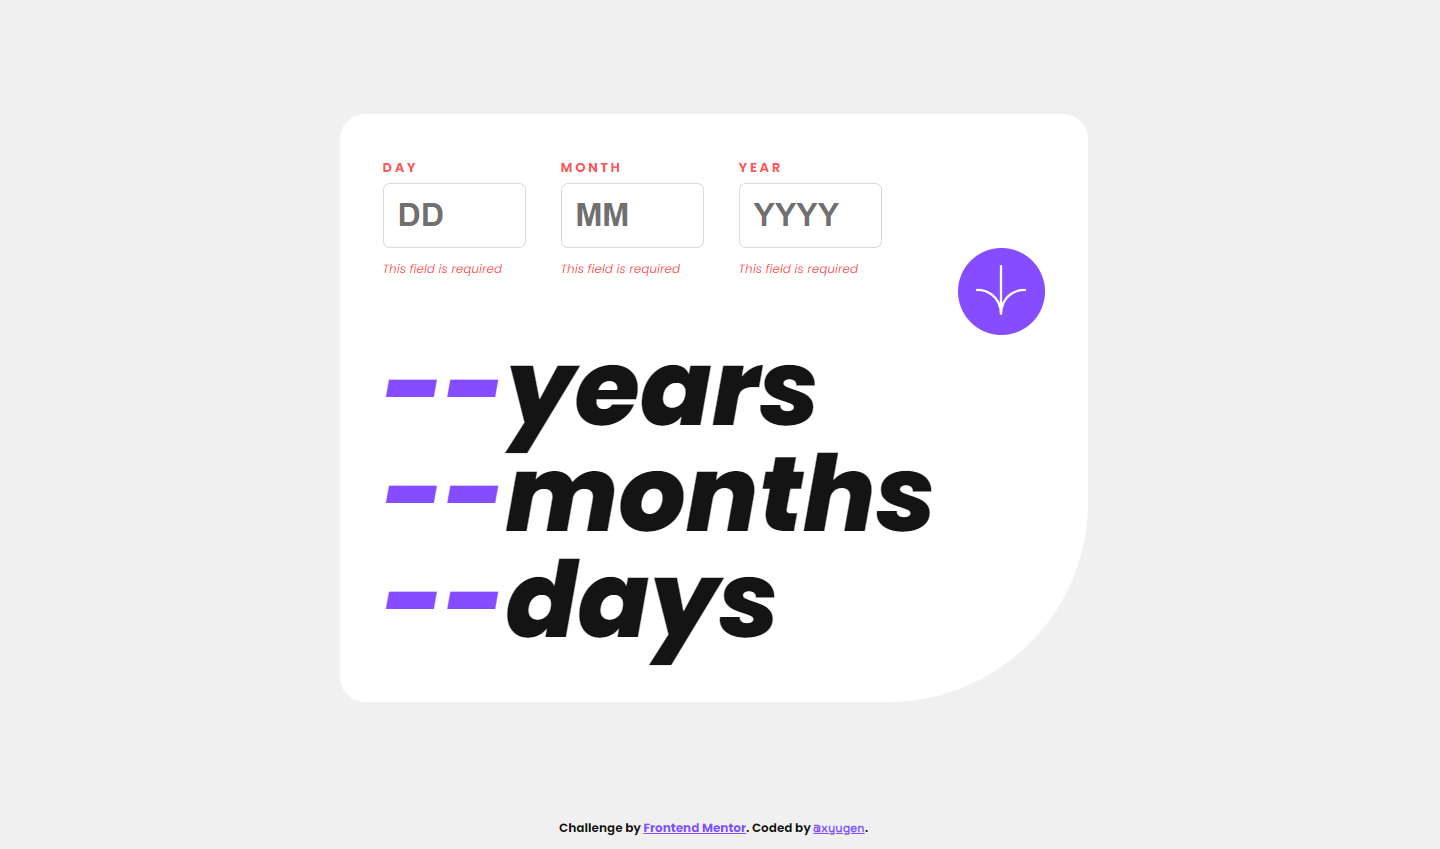
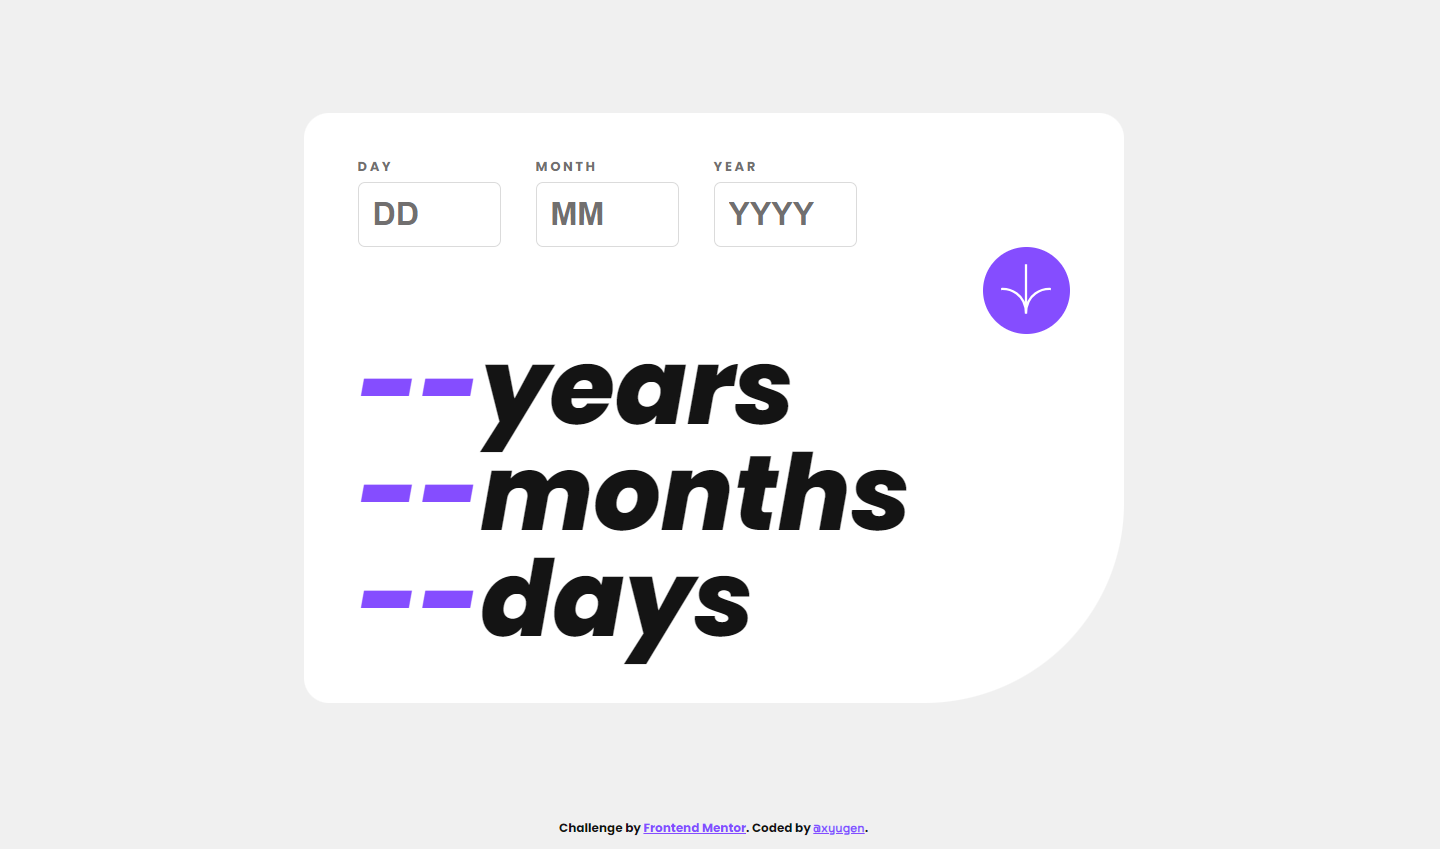
chore: minor adjustments

diff --git a/src/style.sass b/src/style.sass
@@ -50,10 +50,10 @@ body
     position: relative
 
 .container
-    width: 748px
-    height: 588px
+    width: 820px
+    height: 590px
     background: $color-white
-    padding: 44px 43px
+    padding: 44px 54px
     border-radius: 25px 25px 200px 25px
     .input
         display: flex

diff --git a/src/style.css b/src/style.css
@@ -19,10 +19,10 @@ body {
 }
 
 .container {
-  width: 748px;
-  height: 588px;
+  width: 820px;
+  height: 590px;
   background: #FFFFFF;
-  padding: 44px 43px;
+  padding: 44px 54px;
   border-radius: 25px 25px 200px 25px;
 }
 .container .input {
